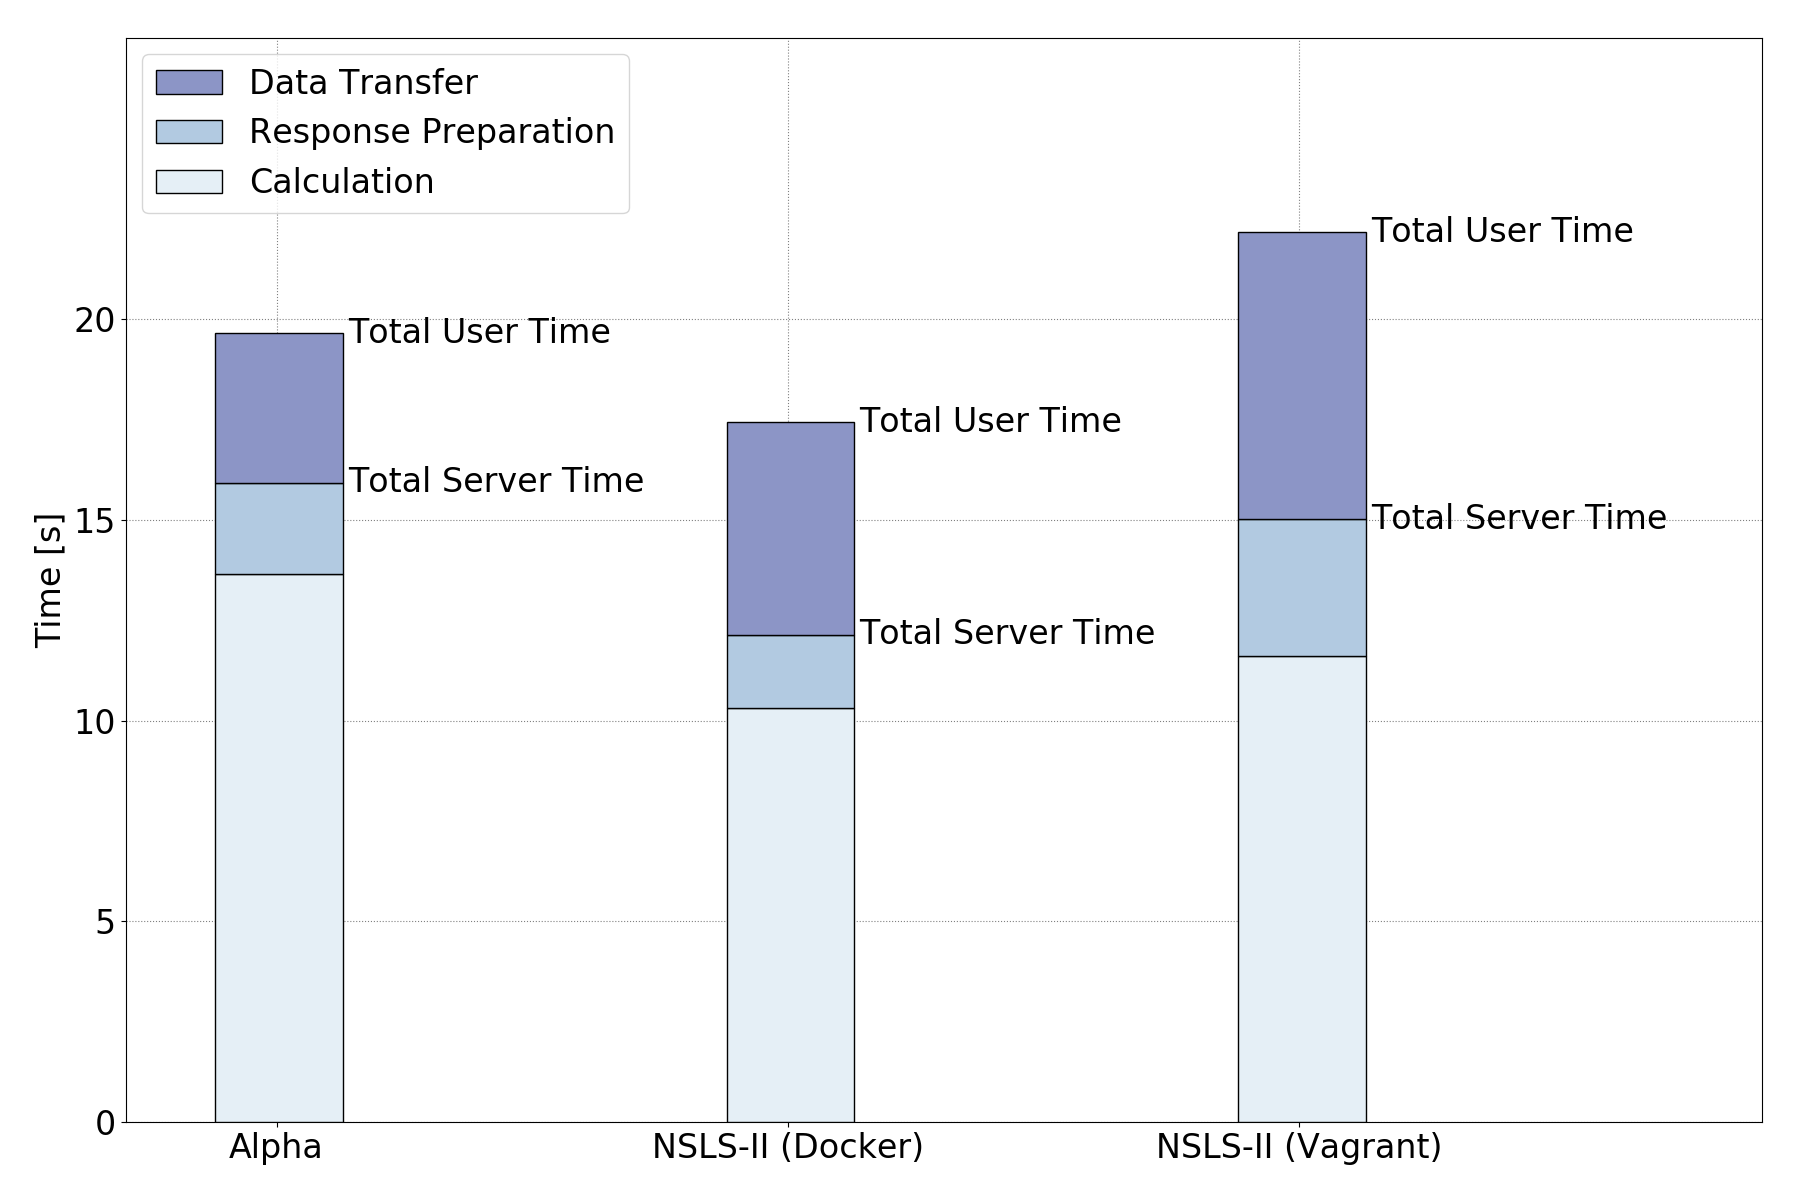
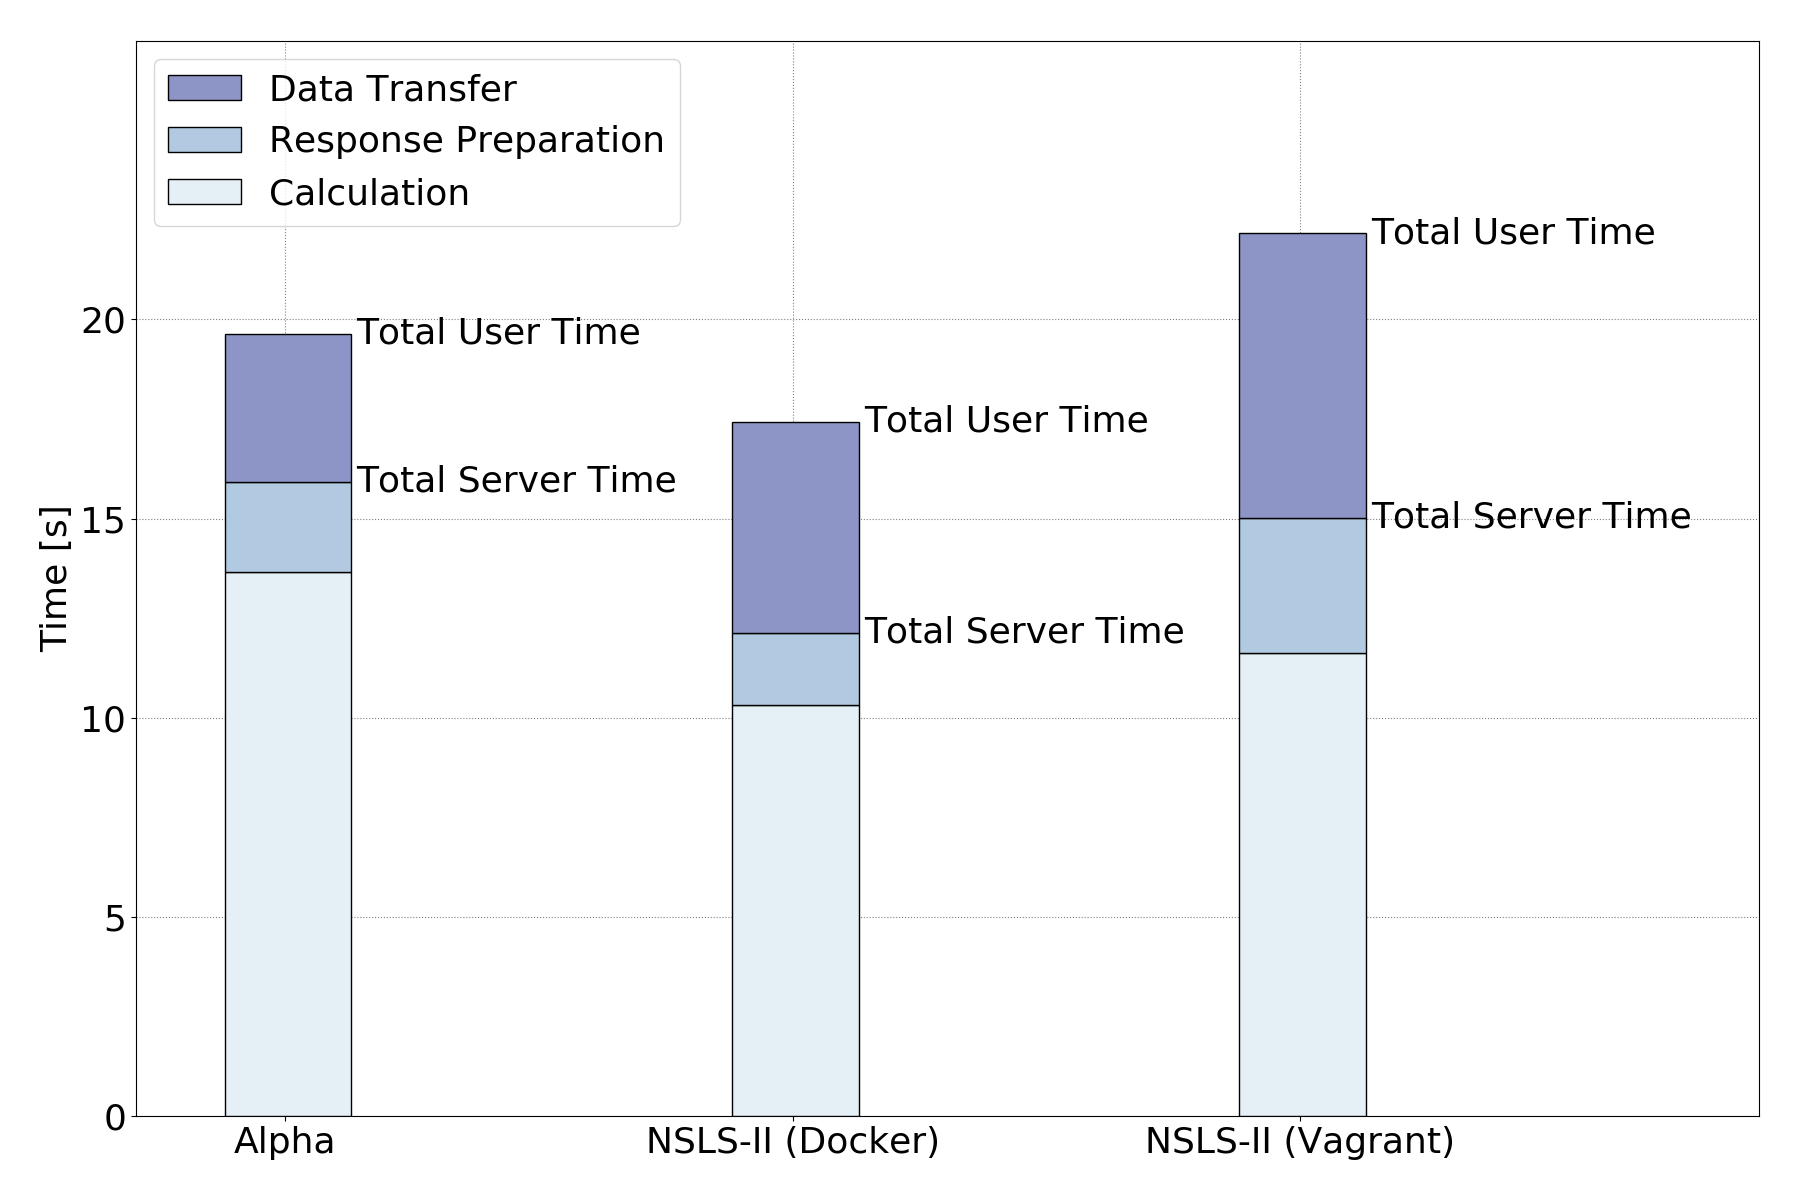
Larger font.

diff --git a/scripts/plot_stacked_bars.py b/scripts/plot_stacked_bars.py
@@ -6,7 +6,7 @@ import matplotlib.pyplot as plt
 import numpy as np
 
 
-def plot_stacked_bars(data, title=None, fontsize=24, figname='plot.png'):
+def plot_stacked_bars(data, title=None, fontsize=26, figname='plot.png'):
     # Set font size:
     matplotlib.rcParams.update({'font.size': fontsize})
 
